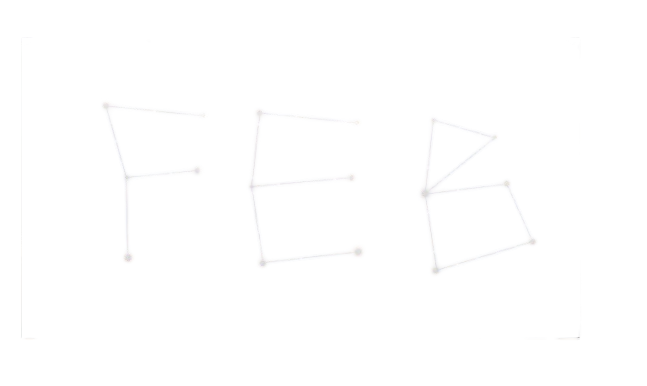
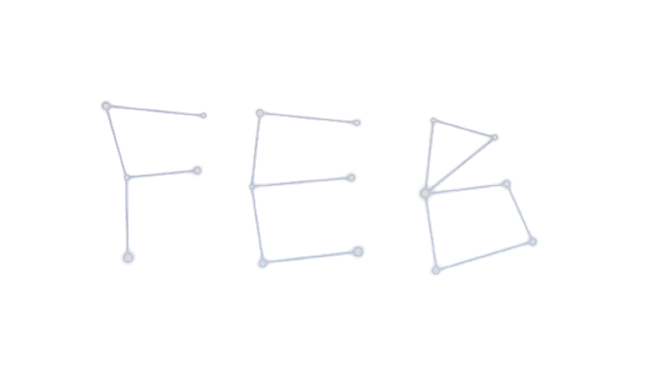
fixed button for feb and mar

diff --git a/src/routes/+page.svelte b/src/routes/+page.svelte
@@ -4,17 +4,17 @@
     import "/src/routes/data.js";
     const months = [   
     { name: "Jan", num: 1, days: 31, img: "months/1BGRemove.png"},   
-    { name: "Feb", num: 2, days: 28, img: "months/2.png"},   
-    { name: "Mar", num: 3, days: 31, img: "months/3.png"},   
-    { name: "Apr", num: 4, days: 30, img: "months/4.png"},   
-    { name: "May", num: 5, days: 31, img: "months/5.png"},   
-    { name: "Jun", num: 6, days: 30, img: "months/6.png"},   
-    { name: "Jul", num: 7, days: 31, img: "months/7.png"},   
-    { name: "Aug", num: 8, days: 31, img: "months/8.png"},   
-    { name: "Sep", num: 9, days: 30, img: "months/9.png"},   
-    { name: "Oct", num: 10, days: 31, img: "months/10.png"},  
-    { name: "Nov", num: 11, days: 30, img: "months/11.png"},   
-    { name: "Dec", num: 12, days: 31, img: "months/12.png"} ]
+    { name: "Feb", num: 2, days: 28, img: "months/2BGRemove.png"},   
+    { name: "Mar", num: 3, days: 31, img: "months/3BGRemove.png"},   
+    { name: "Apr", num: 4, days: 30, img: "months/4BGRemove.png"},   
+    { name: "May", num: 5, days: 31, img: "months/5BGRemove.png"},   
+    { name: "Jun", num: 6, days: 30, img: "months/6BGRemove.png"},   
+    { name: "Jul", num: 7, days: 31, img: "months/7BGRemove.png"},   
+    { name: "Aug", num: 8, days: 31, img: "months/8BGRemove.png"},   
+    { name: "Sep", num: 9, days: 30, img: "months/9BGRemove.png"},   
+    { name: "Oct", num: 10, days: 31, img: "months/10BGRemove.png"},  
+    { name: "Nov", num: 11, days: 30, img: "months/11BGRemove.png"},   
+    { name: "Dec", num: 12, days: 31, img: "months/12BGRemove.png"} ]
 
 const currentYear = new Date().getFullYear();
 
